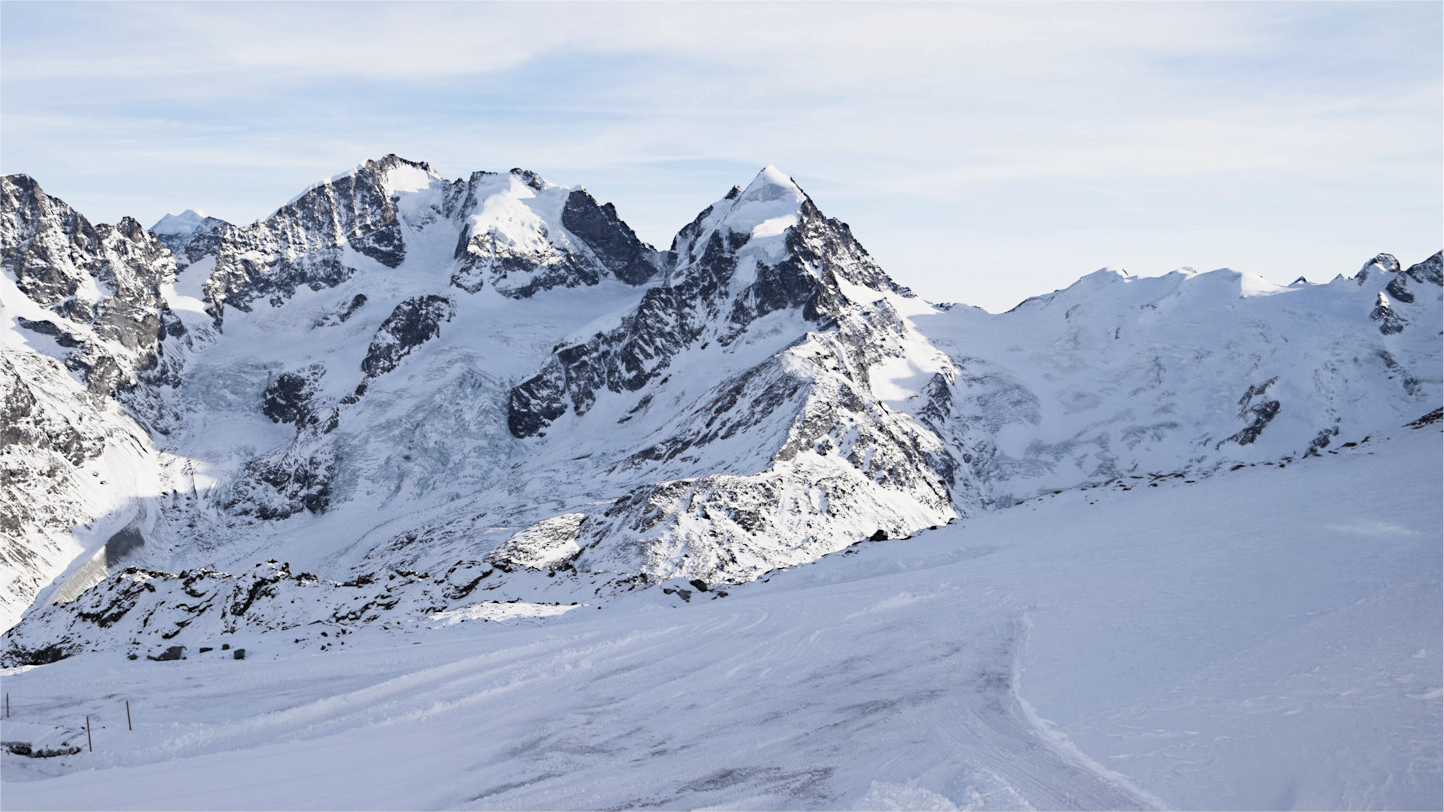
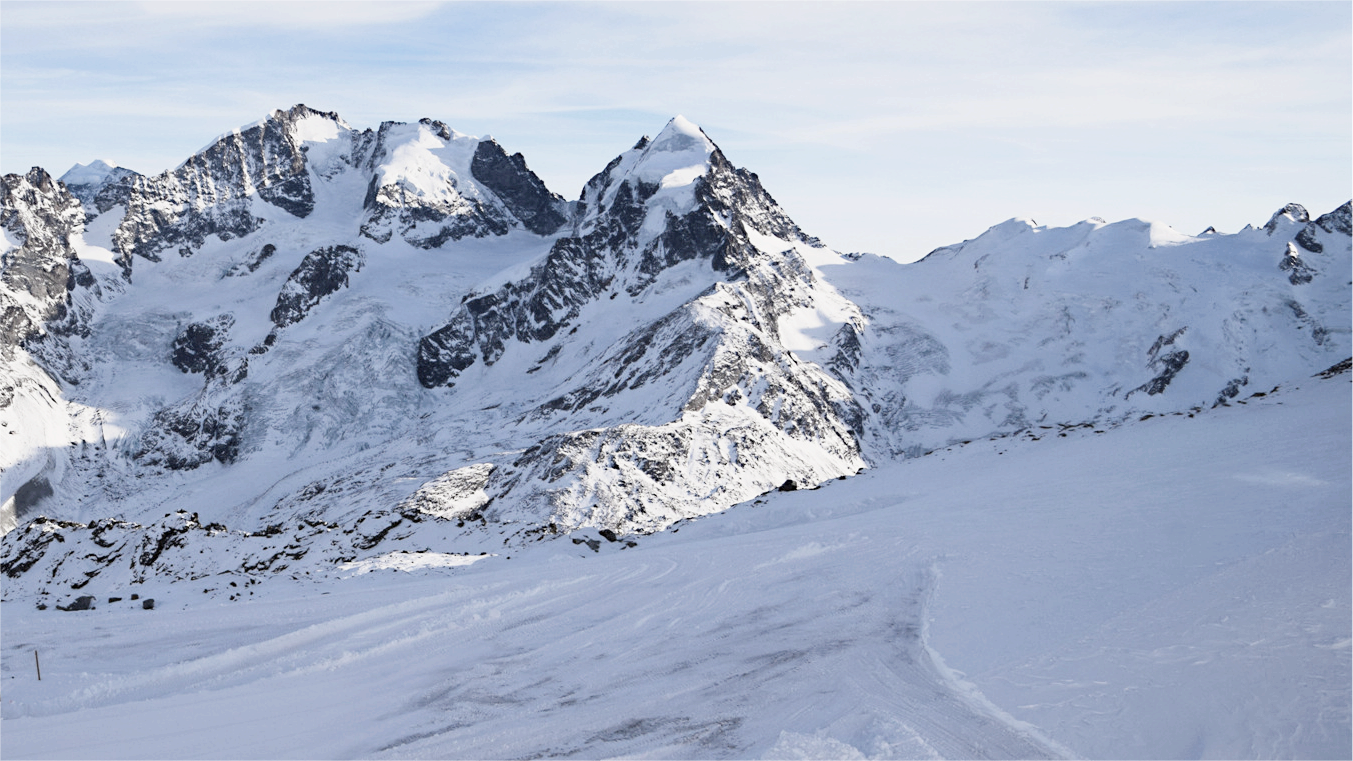
tiredxuan

diff --git a/src/views/toshow.vue b/src/views/toshow.vue
@@ -66,7 +66,7 @@ const handleFileChange = (event) => {
             const base64String = reader.result.split(',')[1];
             console.log(base64String);
             // 将 base64String 发送给后端的 API
-            axios.post('http://10.12.54.14:12345/predict', { image_base64: base64String })
+            axios.post('http://10.13.4.225:12345/predict', { image_base64: base64String })
                 .then((response) => {
                     console.log('上传成功', response);
                     console.log(response.data)

diff --git a/src/App.vue b/src/App.vue
@@ -18,7 +18,7 @@ import { RouterView } from 'vue-router'
 
 body {
   font-family: Helvetica, "microsoft yahei", arial, STHeiTi, sans-serif;
-  background-image: url("src/assets/SnowMountain(1).png");
+  background-image: url("src/assets/SnowMountain(2).png");
   background-size: cover;
   background-repeat: no-repeat; /* 防止图片重复平铺 */
   background-attachment: fixed; /* 固定背景图片，使其在滚动时保持不变 */
